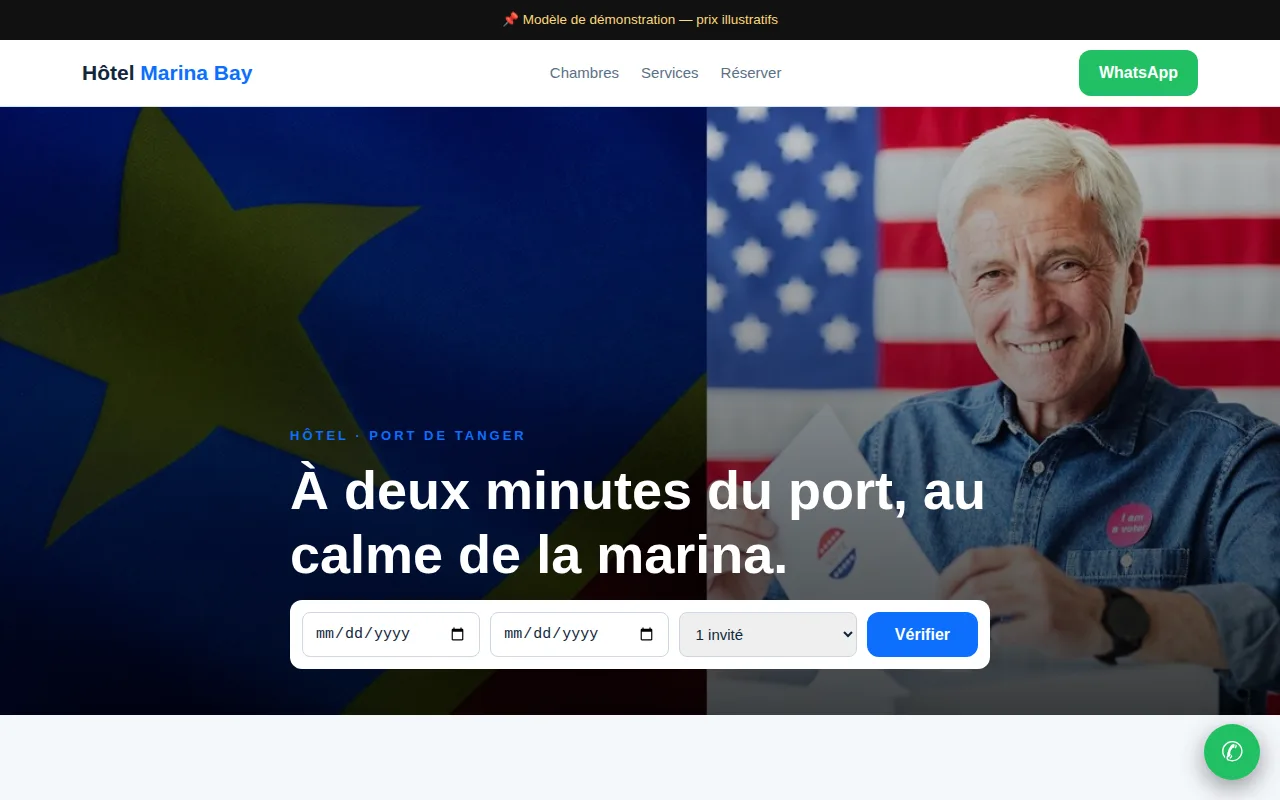
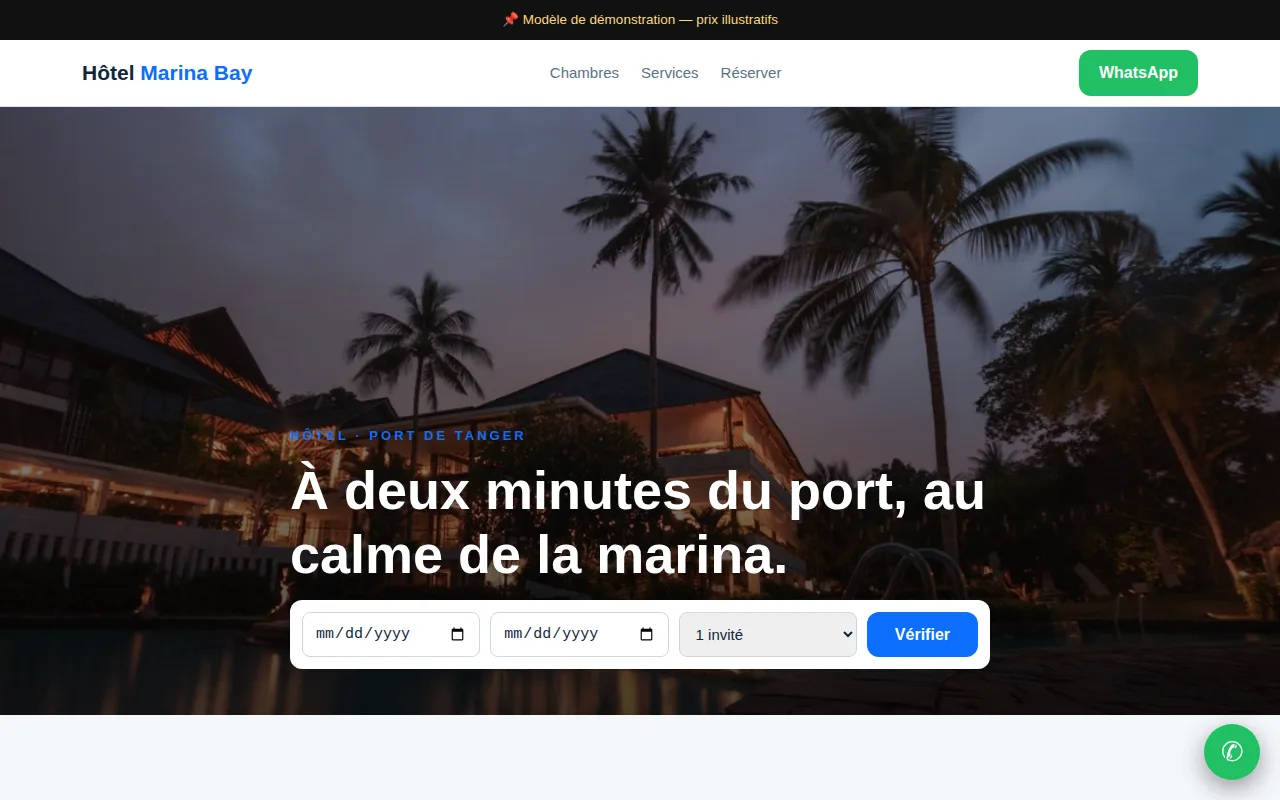
IKI demo (Instituts Ibn Khaldoun) + portfolio 24

diff --git a/demo-hotel.html b/demo-hotel.html
@@ -51,7 +51,7 @@ footer{border-top:1px solid var(--line);padding:32px 0;color:var(--mut);font-siz
 <body>
 <div class="demobar">📌 Modèle de démonstration — prix illustratifs</div>
 <header><div class="wrap nav"><div class="logo">Hôtel <span>Marina Bay</span></div><nav class="links"><a href="#items">Chambres</a><a href="#plus">Services</a><a href="#contact">Réserver</a></nav><a class="btn btn-wa" style="padding:10px 20px" target="_blank" rel="noopener" href="https://wa.me/212693981822?text=Bonjour%20Hôtel%20Marina%20Bay">WhatsApp</a></div></header>
-<section class="hero" style="min-height:76vh;display:flex;align-items:flex-end"><img class="bg" src="demo-hotel/img/hero.jpg" alt=""><div class="veil"></div><div class="wrap hero-in" style="padding:120px 22px 46px"><div class="kick">Hôtel · Port de Tanger</div><h1 style="color:#fff;max-width:700px">À deux minutes du port, au calme de la marina.</h1><form class="bookbar" onsubmit="return bookWa(event)"><input type="date" id="bk-in" required><input type="date" id="bk-out" required><select id="bk-g"><option>1 invité</option><option>2 invités</option><option>3 invités</option><option>4+ invités</option></select><button class="btn" style="border:none;cursor:pointer" type="submit">Vérifier</button></form></div></section>
+<section class="hero" style="min-height:76vh;display:flex;align-items:flex-end"><img class="bg" src="demo-hotel/img/1.jpg" alt=""><div class="veil"></div><div class="wrap hero-in" style="padding:120px 22px 46px"><div class="kick">Hôtel · Port de Tanger</div><h1 style="color:#fff;max-width:700px">À deux minutes du port, au calme de la marina.</h1><form class="bookbar" onsubmit="return bookWa(event)"><input type="date" id="bk-in" required><input type="date" id="bk-out" required><select id="bk-g"><option>1 invité</option><option>2 invités</option><option>3 invités</option><option>4+ invités</option></select><button class="btn" style="border:none;cursor:pointer" type="submit">Vérifier</button></form></div></section>
 <section class="sec" id="items"><div class="wrap"><div class="sec-head"><h2>Nos chambres</h2><p>Annulation flexible en réservation directe.</p></div><div class="grid"><article class="card soft"><img src="demo-hotel/img/2.jpg" alt="Chambre simple" loading="lazy"><div class="in"><h3>Chambre simple</h3><p>Lit confortable, bureau de travail.</p><div class="row"><span class="price">À partir de 390 DH / nuit</span><a class="mini" target="_blank" rel="noopener" href="https://wa.me/212693981822?text=Bonjour,%20je%20veux%20réserver%20:%20Chambre%20simple">Réserver</a></div></div></article>
 <article class="card soft"><img src="demo-hotel/img/3.jpg" alt="Chambre double" loading="lazy"><div class="in"><h3>Chambre double</h3><p>Vue marina, petit-déjeuner en option.</p><div class="row"><span class="price">À partir de 490 DH / nuit</span><a class="mini" target="_blank" rel="noopener" href="https://wa.me/212693981822?text=Bonjour,%20je%20veux%20réserver%20:%20Chambre%20double">Réserver</a></div></div></article>
 <article class="card soft"><img src="demo-hotel/img/4.jpg" alt="Chambre triple" loading="lazy"><div class="in"><h3>Chambre triple</h3><p>Pour les familles de passage.</p><div class="row"><span class="price">À partir de 590 DH / nuit</span><a class="mini" target="_blank" rel="noopener" href="https://wa.me/212693981822?text=Bonjour,%20je%20veux%20réserver%20:%20Chambre%20triple">Réserver</a></div></div></article>
